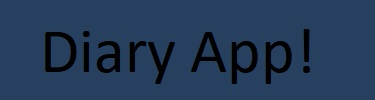
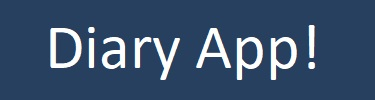
More css changes , changed the header image and added a message to the success page

Changed region(s): [[0.1173, 0.27, 0.4987, 0.84], [0.4987, 0.24, 0.8507, 0.84]]

diff --git a/website/success.html b/website/success.html
@@ -25,6 +25,7 @@
       <img src="image/placeHolder.jpg">
     </div>
     <div class="homePageChoice">
+      <p id='success'> Success!</p>
       <a href='createEntry.html' class='buttons'>Add another Entry!</a>
       <a href='ViewHistory.html' class='buttons'>View past Entries!</a>
       <a href='index.html' class='buttons'>Back Home</a>

diff --git a/website/styles/stylesheet.css b/website/styles/stylesheet.css
@@ -23,6 +23,7 @@ a.buttons{
 
 p{
   color:#1b2845;
+  font-size: 25px;
 }
 
 #forAnError{
@@ -122,4 +123,13 @@ div.tableDiv{
 
 td{
   padding: 6px;
+}
+
+/*Success page */
+#success{
+  font-size: 45px;
+  margin-bottom: 10px;
+  margin-left: auto;
+  margin-right: auto;
+  text-decoration: underline;
 }
